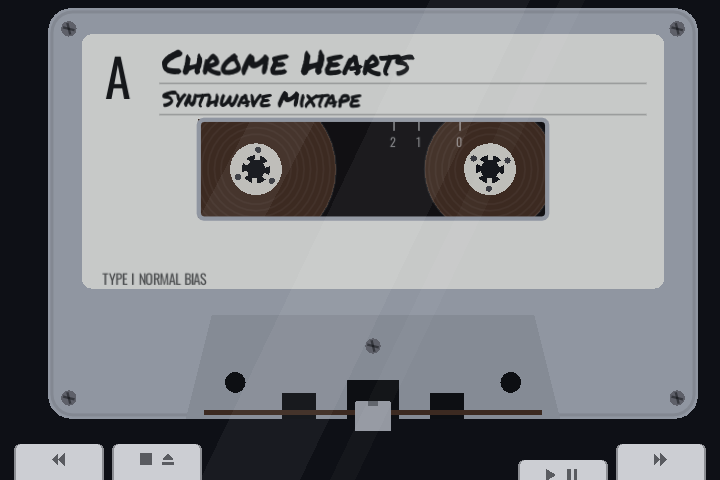
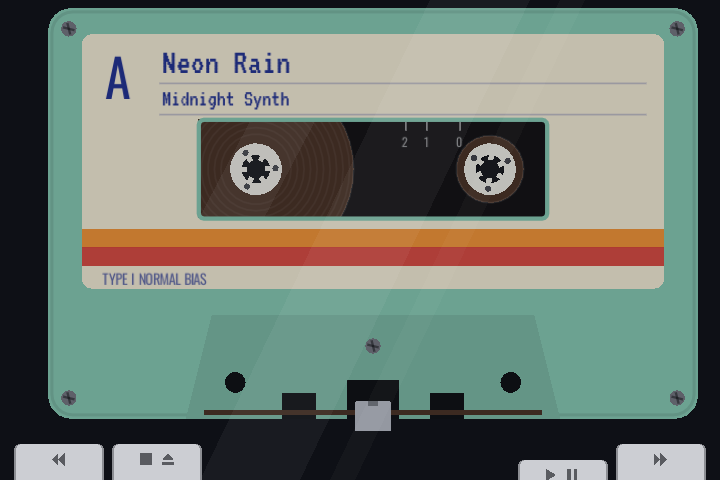
Show more representative pictures in the README
The screenshot run now builds a library of nine made-up albums with their
own song titles, so the docs show the box of tapes, an album's songs and
two playing tapes in different styles.

Claude-Session: https://claude.ai/code/session_013h42Ln1xJVHQVHQ8PeAZ2n

diff --git a/README.md b/README.md
@@ -9,9 +9,14 @@ can tell what the player is doing the way you would with a real one: from the
 keys that are pressed down, the turning reels, how much tape is on each reel
 and the play head against the tape.
 
-| Library | Player |
+| The box of tapes | Inside an album |
 | --- | --- |
-| ![Library](docs/library.png) | ![Deck](docs/deck.png) |
+| ![Library: albums as a stack of cassettes, the selected one slid out](docs/library.png) | ![An album's songs as tapes in the album's style](docs/album.png) |
+| **Playing Midnight Synth** | **Playing a song from Coastal Drive** |
+| ![A mint cassette with orange and red stripes playing in the player](docs/deck.png) | ![A chrome cassette with a felt-marker label playing in the player](docs/deck-2.png) |
+
+Each tape's shell, label paper, stripes, handwriting and ink come from its
+album's name, and the cassette in the player matches its spine in the box.
 
 Built with [LÖVE](https://love2d.org) 11.x (Lua).
 
